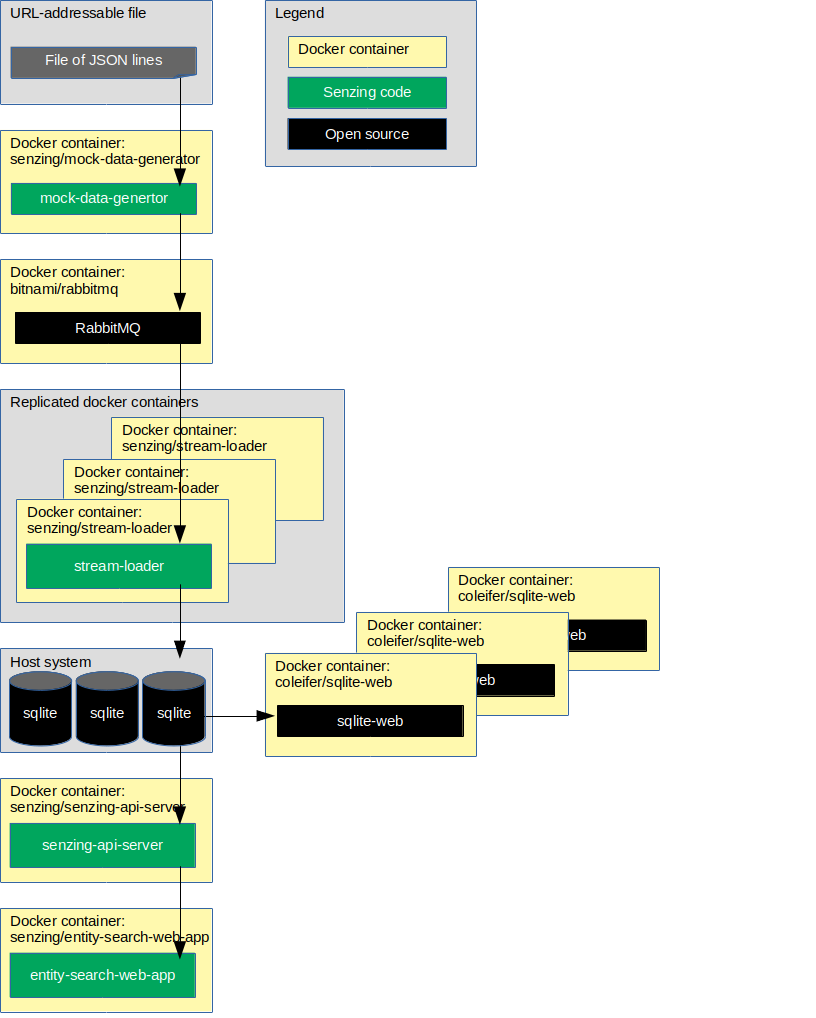
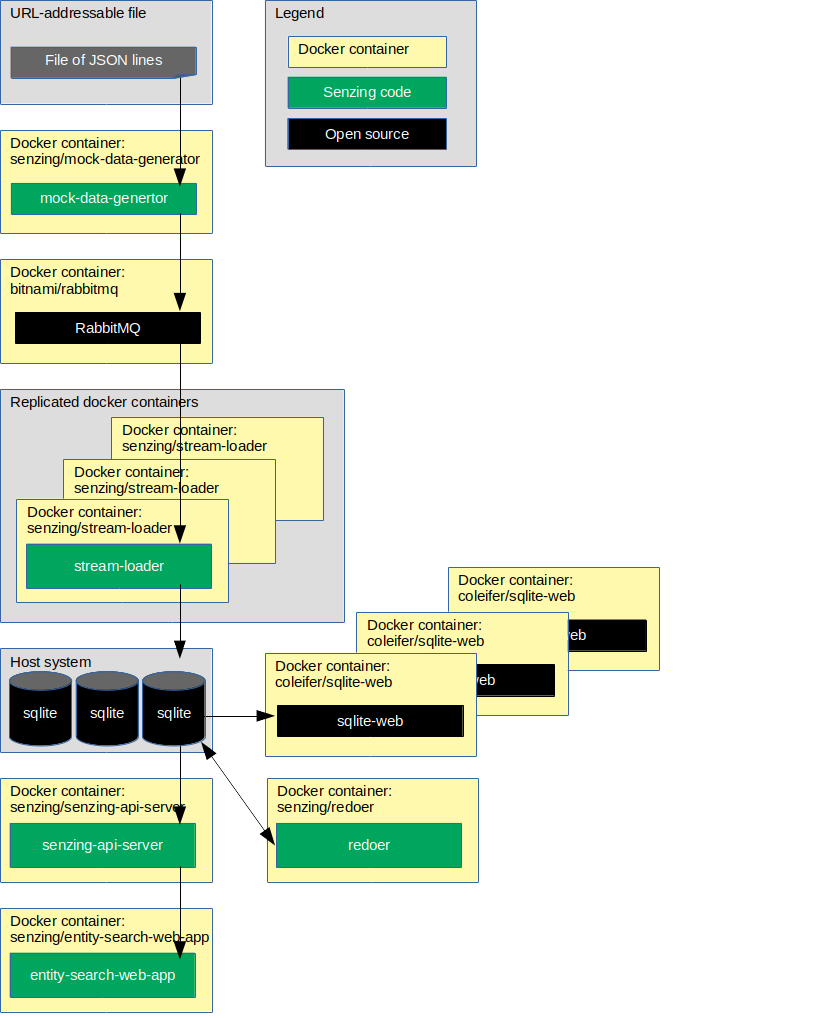
#51 Add senzing/redoer

Changed region(s): [[0.3064, 0.7613, 0.6127, 0.8831], [0.2451, 0.7308, 0.2757, 0.7613]]

diff --git a/docs/docker-compose-rabbitmq-sqlite-cluster/README.md b/docs/docker-compose-rabbitmq-sqlite-cluster/README.md
@@ -27,6 +27,7 @@ This docker formation brings up the following docker containers:
 1. *[coleifer/sqlite-web](https://github.com/coleifer/sqlite-web)*
 1. *[senzing/entity-web-search-app](https://github.com/Senzing/entity-search-web-app)*
 1. *[senzing/mock-data-generator](https://github.com/Senzing/mock-data-generator)*
+1. *[senzing/redoer](https://github.com/Senzing/redoer)*
 1. *[senzing/senzing-api-server](https://github.com/Senzing/senzing-api-server)*
 1. *[senzing/stream-loader](https://github.com/Senzing/stream-loader)*
 
